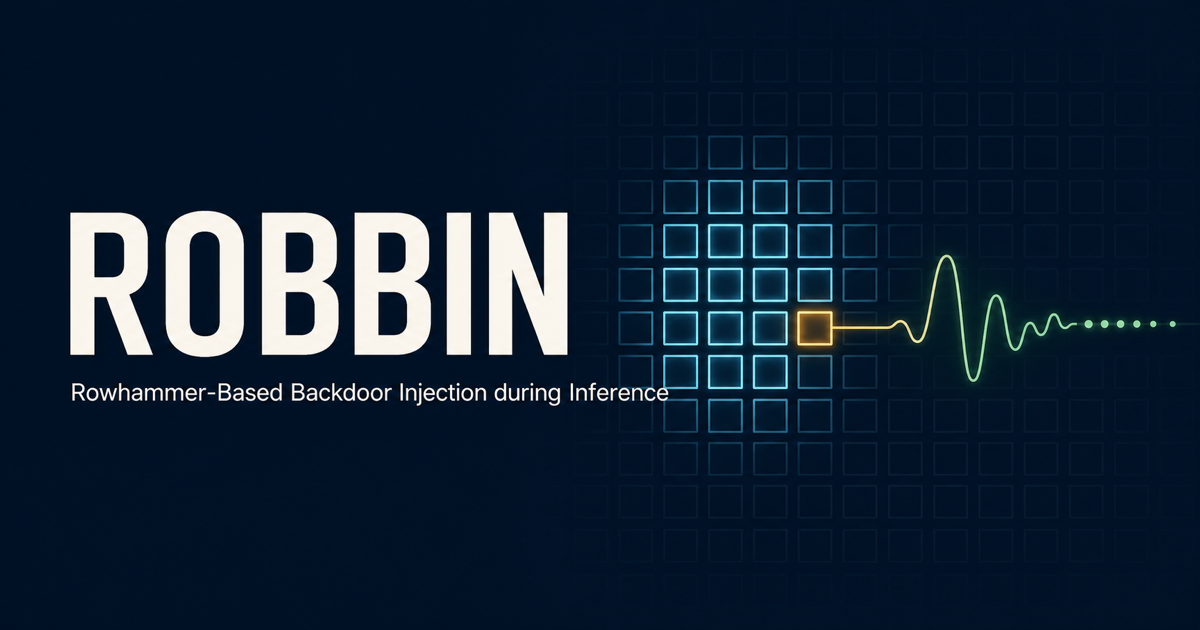
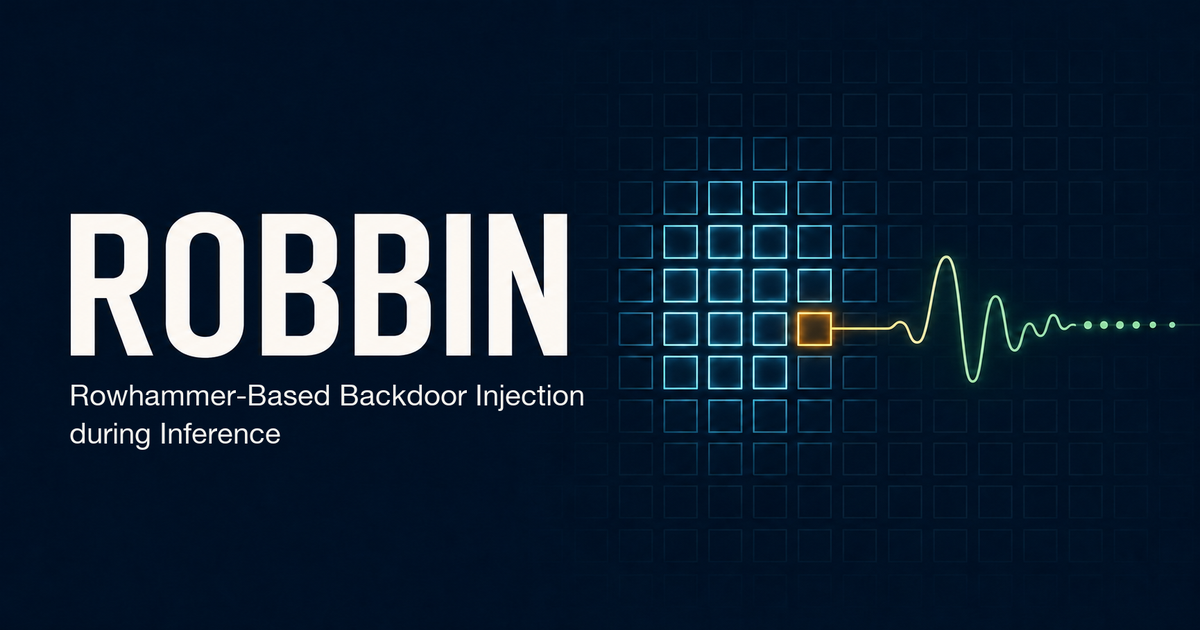
Refine ROBBIN social card title layout

diff --git a/index.html b/index.html
@@ -9,8 +9,12 @@
     <meta property="og:description" content="Use ROBBIN, understand the method, and explore hardware results across three DDR4 devices." />
     <meta property="og:type" content="website" />
     <meta property="og:url" content="https://noisyor.github.io/ROBBIN-Rowhammer-Based-Backdoor-Injection-during-Inference/" />
-    <meta property="og:image" content="https://noisyor.github.io/ROBBIN-Rowhammer-Based-Backdoor-Injection-during-Inference/assets/robbin-og.png" />
+    <meta property="og:image" content="https://noisyor.github.io/ROBBIN-Rowhammer-Based-Backdoor-Injection-during-Inference/assets/robbin-og.png?v=20260831a" />
+    <meta property="og:image:width" content="1200" />
+    <meta property="og:image:height" content="630" />
+    <meta property="og:image:alt" content="ROBBIN: Rowhammer-Based Backdoor Injection during Inference" />
     <meta name="twitter:card" content="summary_large_image" />
+    <meta name="twitter:image" content="https://noisyor.github.io/ROBBIN-Rowhammer-Based-Backdoor-Injection-during-Inference/assets/robbin-og.png?v=20260831a" />
     <link rel="icon" href="assets/robbin-robin-emblem.png?v=20260803h" />
     <link rel="stylesheet" href="assets/site.css?v=20260803j" />
     <script src="assets/site.js?v=20260803c" defer></script>
